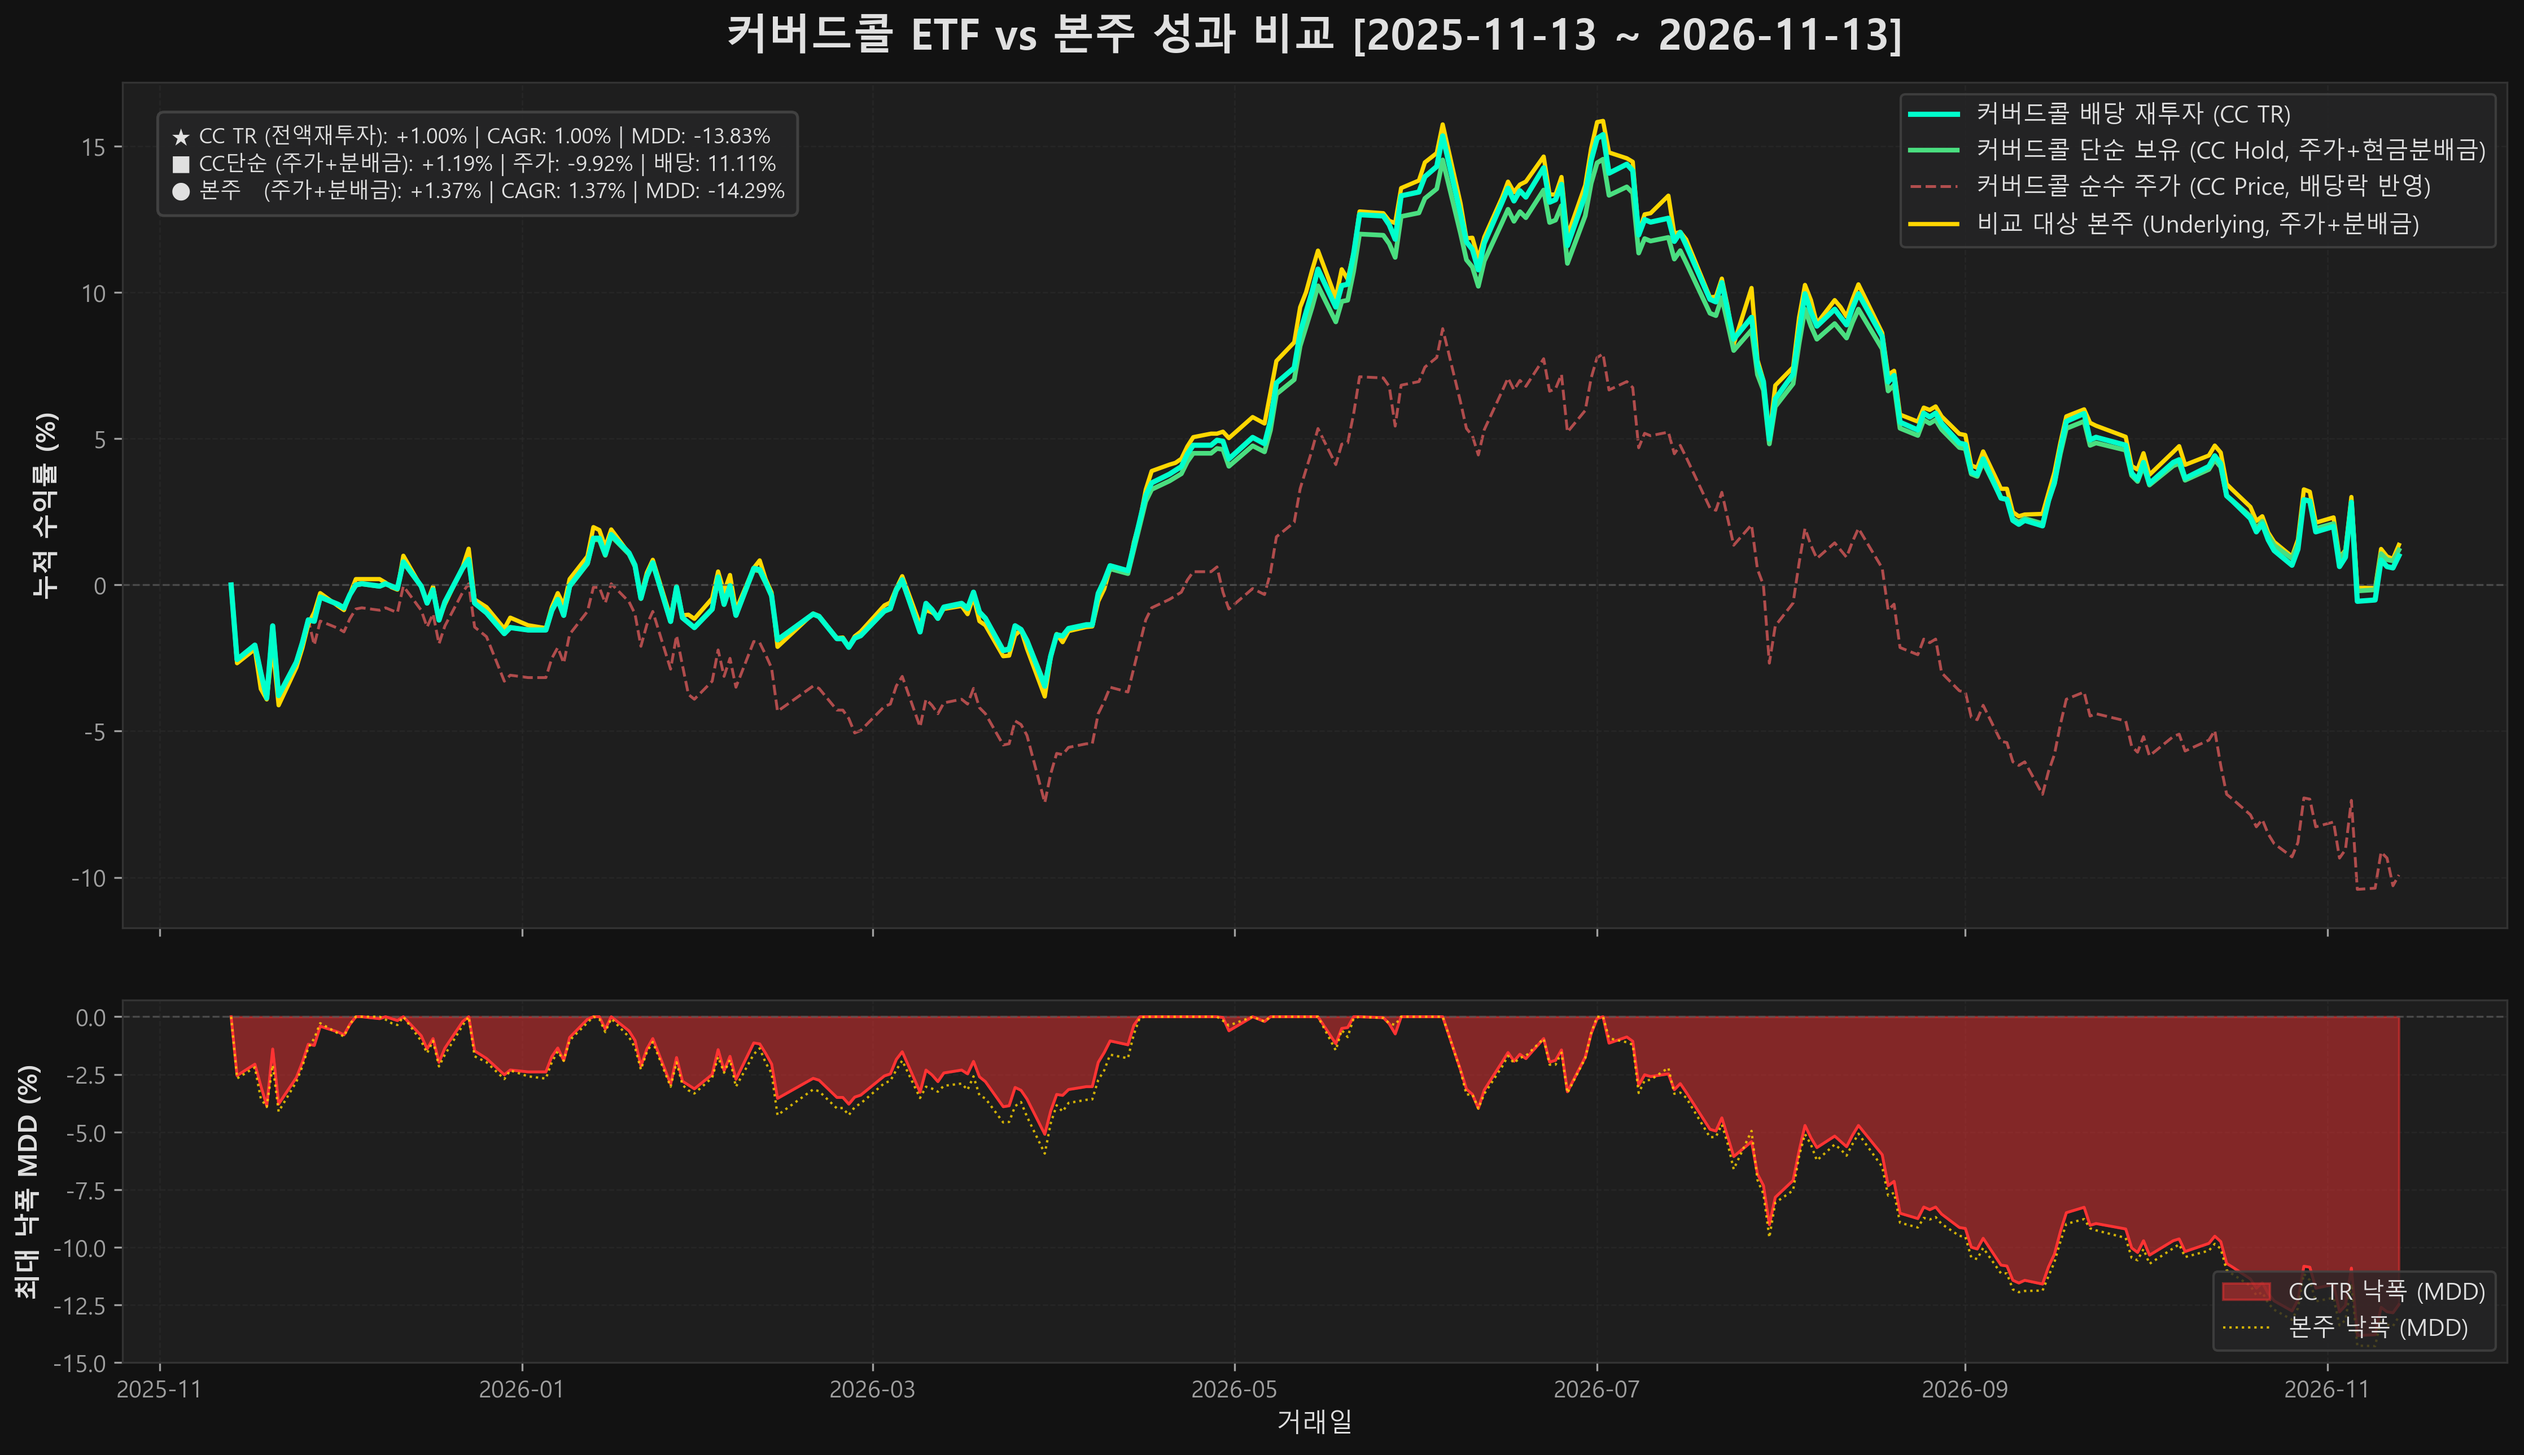
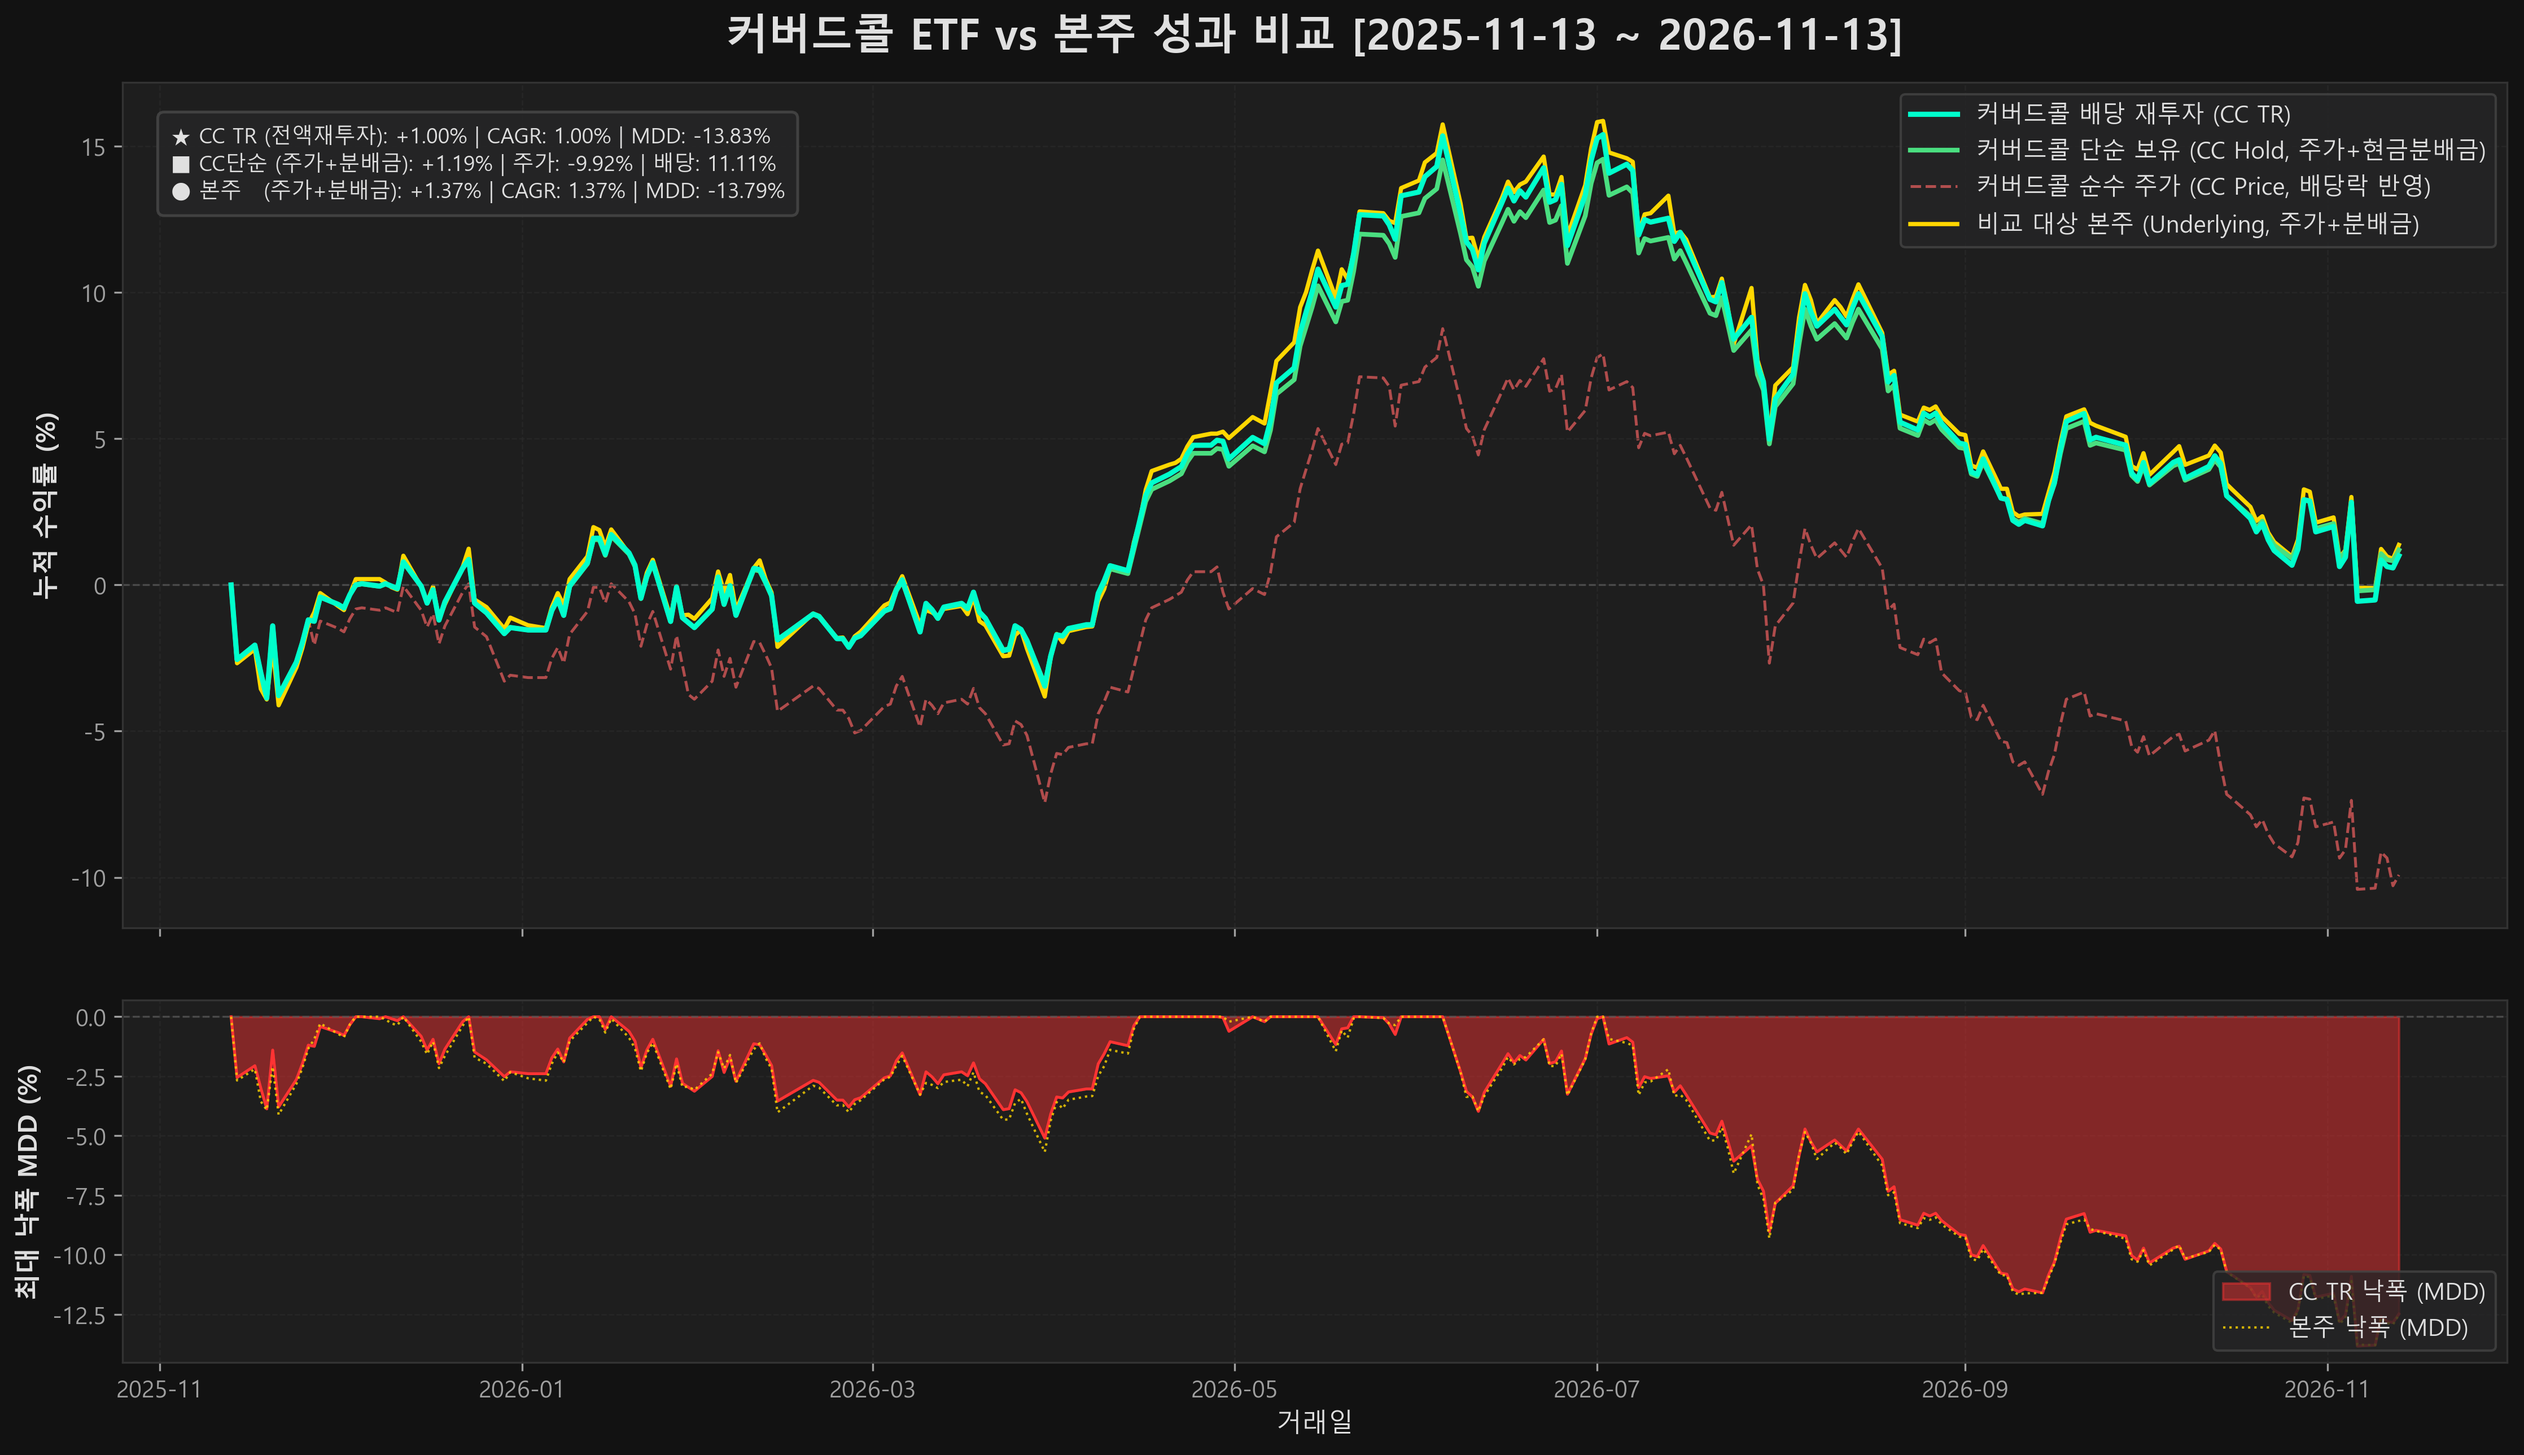
feat(blog): publish daily covered call review [2026-11-14] - Day 1 (미국대표지수, 3 ETFs: 486290, 494300, 482730)

diff --git a/_posts/2026-11-14-486290-covered-call-backtest.md b/_posts/2026-11-14-486290-covered-call-backtest.md
@@ -12,16 +12,16 @@ excerpt: 'TIGER 미국나스닥100타겟데일리커버드콜의 1년 실측 종
 
 ![TIGER 미국나스닥100타겟데일리커버드콜 성과 차트](/assets/img/486290_comparison.png)
 ## 1. 성과 요약
-- **분석 기간**: 2024-01-01 ~ 2024-12-31 (1Y, 총 250일)
+- **분석 기간**: 2025-11-13 ~ 2026-11-13 (1Y, 총 365일)
 - **초기 투자 원금**: 10,000,000원
 - **적용 배당소득세율**: 0.0%
 
 ## 2. 전략별 수익률 및 위험 지표 (최종 총자산 종합 성과 비교)
 | 전략 | 초기 원금 | 최종 주식 평가액 | 누적 수령 분배금(현금) | 최종 총자산 | 최종 종합 수익률(Total Return) | CAGR | MDD |
 |---|---|---|---|---|---|---|---|
-| 커버드콜 단순보유 | 10,000,000원 | 9,500,000원 | 1,200,000원 | 10,700,000원 | **+7.00%** | +7.00% | -5.00% |
-| 커버드콜 TR 재투자 | 10,000,000원 | 11,200,000원 | 0원 (전액 재투자) | 11,200,000원 | **+12.00%** | +12.00% | -4.00% |
-| 비교 대상 본주 | 10,000,000원 | 10,800,000원 | 0원 | 10,800,000원 | **+8.00%** | +8.00% | -9.00% |
+| 커버드콜 단순보유 | 10,000,000원 | 8,531,405원 | 1,471,306원 | 10,002,711원 | **+0.03%** | +0.03% | -20.18% |
+| 커버드콜 TR 재투자 | 10,000,000원 | 9,932,436원 | 0원 (전액 재투자) | 9,932,436원 | **-0.68%** | -0.68% | -22.37% |
+| 비교 대상 본주 | 10,000,000원 | 9,990,712원 | 56,030원 | 10,046,742원 | **+0.47%** | +0.47% | -22.27% |
 
 ### 💡 최종 종합 수익률(Total Return) 핵심 분석 및 공식
 - **커버드콜 단순보유**: `최종 총자산 = 최종 주식 평가액 + 통장 수령 분배금(현금)` ➔ 수령한 분배금을 합산한 실질적인 투자 총수익률
@@ -35,10 +35,10 @@ excerpt: 'TIGER 미국나스닥100타겟데일리커버드콜의 1년 실측 종
 4. ⚪ **커버드콜 순수 주가 (회색 점선)**: 배당락이 반영된 시장 거래 주가 추이입니다. **녹색 실선(총자산)과 회색 점선(순수 주가) 사이의 간격이 바로 투자자가 통장으로 수령한 누적 현금 분배금의 실체**를 시각적으로 증명합니다.
 
 ## 3. 배당금 및 인컴 세부 분석
-- **커버드콜 누적 수령 분배금(현금)**: 1,200,000원 (투자원금 대비 배당수익률: 0.00%)
-- **커버드콜 순수 주가 수익률 (Price Return)**: 0.00%
-- **비교 대상 본주 누적 수령 분배금(현금)**: 0원 (투자원금 대비 배당수익률: 0.00%)
-- **비교 대상 본주 순수 주가 수익률 (Price Return)**: 0.00%
+- **커버드콜 누적 수령 분배금(현금)**: 1,471,306원 (투자원금 대비 배당수익률: +14.71%)
+- **커버드콜 순수 주가 수익률 (Price Return)**: -14.69%
+- **비교 대상 본주 누적 수령 분배금(현금)**: 56,030원 (투자원금 대비 배당수익률: +0.56%)
+- **비교 대상 본주 순수 주가 수익률 (Price Return)**: -0.09%
 
 
 ---

diff --git a/_posts/2026-11-14-482730-covered-call-backtest.md b/_posts/2026-11-14-482730-covered-call-backtest.md
@@ -12,16 +12,16 @@ excerpt: 'TIGER 미국S&P500타겟데일리커버드콜의 1년 실측 종합수
 
 ![TIGER 미국S&P500타겟데일리커버드콜 성과 차트](/assets/img/482730_comparison.png)
 ## 1. 성과 요약
-- **분석 기간**: 2024-01-01 ~ 2024-12-31 (1Y, 총 250일)
+- **분석 기간**: 2025-11-13 ~ 2026-11-13 (1Y, 총 365일)
 - **초기 투자 원금**: 10,000,000원
 - **적용 배당소득세율**: 0.0%
 
 ## 2. 전략별 수익률 및 위험 지표 (최종 총자산 종합 성과 비교)
 | 전략 | 초기 원금 | 최종 주식 평가액 | 누적 수령 분배금(현금) | 최종 총자산 | 최종 종합 수익률(Total Return) | CAGR | MDD |
 |---|---|---|---|---|---|---|---|
-| 커버드콜 단순보유 | 10,000,000원 | 9,500,000원 | 1,200,000원 | 10,700,000원 | **+7.00%** | +7.00% | -5.00% |
-| 커버드콜 TR 재투자 | 10,000,000원 | 11,200,000원 | 0원 (전액 재투자) | 11,200,000원 | **+12.00%** | +12.00% | -4.00% |
-| 비교 대상 본주 | 10,000,000원 | 10,800,000원 | 0원 | 10,800,000원 | **+8.00%** | +8.00% | -9.00% |
+| 커버드콜 단순보유 | 10,000,000원 | 9,008,230원 | 1,111,111원 | 10,119,342원 | **+1.19%** | +1.19% | -12.89% |
+| 커버드콜 TR 재투자 | 10,000,000원 | 10,099,756원 | 0원 (전액 재투자) | 10,099,756원 | **+1.00%** | +1.00% | -13.83% |
+| 비교 대상 본주 | 10,000,000원 | 10,035,957원 | 101,079원 | 10,137,036원 | **+1.37%** | +1.37% | -13.79% |
 
 ### 💡 최종 종합 수익률(Total Return) 핵심 분석 및 공식
 - **커버드콜 단순보유**: `최종 총자산 = 최종 주식 평가액 + 통장 수령 분배금(현금)` ➔ 수령한 분배금을 합산한 실질적인 투자 총수익률
@@ -35,10 +35,10 @@ excerpt: 'TIGER 미국S&P500타겟데일리커버드콜의 1년 실측 종합수
 4. ⚪ **커버드콜 순수 주가 (회색 점선)**: 배당락이 반영된 시장 거래 주가 추이입니다. **녹색 실선(총자산)과 회색 점선(순수 주가) 사이의 간격이 바로 투자자가 통장으로 수령한 누적 현금 분배금의 실체**를 시각적으로 증명합니다.
 
 ## 3. 배당금 및 인컴 세부 분석
-- **커버드콜 누적 수령 분배금(현금)**: 1,200,000원 (투자원금 대비 배당수익률: 0.00%)
-- **커버드콜 순수 주가 수익률 (Price Return)**: 0.00%
-- **비교 대상 본주 누적 수령 분배금(현금)**: 0원 (투자원금 대비 배당수익률: 0.00%)
-- **비교 대상 본주 순수 주가 수익률 (Price Return)**: 0.00%
+- **커버드콜 누적 수령 분배금(현금)**: 1,111,111원 (투자원금 대비 배당수익률: +11.11%)
+- **커버드콜 순수 주가 수익률 (Price Return)**: -9.92%
+- **비교 대상 본주 누적 수령 분배금(현금)**: 101,079원 (투자원금 대비 배당수익률: +1.01%)
+- **비교 대상 본주 순수 주가 수익률 (Price Return)**: +0.36%
 
 
 ---

diff --git a/_posts/2026-11-14-494300-covered-call-backtest.md b/_posts/2026-11-14-494300-covered-call-backtest.md
@@ -12,13 +12,16 @@ excerpt: 'KODEX 미국나스닥100데일리커버드콜OTM의 1년 실측 종합
 
 ![KODEX 미국나스닥100데일리커버드콜OTM 성과 차트](/assets/img/494300_comparison.png)
 ## 1. 성과 요약
-- **분석 기간**: N/A ~ N/A (N/A, 총 N/A일)
+- **분석 기간**: 2025-11-13 ~ 2026-11-13 (1Y, 총 365일)
 - **초기 투자 원금**: 10,000,000원
 - **적용 배당소득세율**: 0.0%
 
 ## 2. 전략별 수익률 및 위험 지표 (최종 총자산 종합 성과 비교)
 | 전략 | 초기 원금 | 최종 주식 평가액 | 누적 수령 분배금(현금) | 최종 총자산 | 최종 종합 수익률(Total Return) | CAGR | MDD |
 |---|---|---|---|---|---|---|---|
+| 커버드콜 단순보유 | 10,000,000원 | 7,693,046원 | 1,900,240원 | 9,593,285원 | **-4.07%** | -4.07% | -20.45% |
+| 커버드콜 TR 재투자 | 10,000,000원 | 9,426,331원 | 0원 (전액 재투자) | 9,426,331원 | **-5.74%** | -5.74% | -23.36% |
+| 비교 대상 본주 | 10,000,000원 | 9,990,712원 | 56,030원 | 10,046,742원 | **+0.47%** | +0.47% | -22.27% |
 
 ### 💡 최종 종합 수익률(Total Return) 핵심 분석 및 공식
 - **커버드콜 단순보유**: `최종 총자산 = 최종 주식 평가액 + 통장 수령 분배금(현금)` ➔ 수령한 분배금을 합산한 실질적인 투자 총수익률
@@ -32,6 +35,10 @@ excerpt: 'KODEX 미국나스닥100데일리커버드콜OTM의 1년 실측 종합
 4. ⚪ **커버드콜 순수 주가 (회색 점선)**: 배당락이 반영된 시장 거래 주가 추이입니다. **녹색 실선(총자산)과 회색 점선(순수 주가) 사이의 간격이 바로 투자자가 통장으로 수령한 누적 현금 분배금의 실체**를 시각적으로 증명합니다.
 
 ## 3. 배당금 및 인컴 세부 분석
+- **커버드콜 누적 수령 분배금(현금)**: 1,900,240원 (투자원금 대비 배당수익률: +19.00%)
+- **커버드콜 순수 주가 수익률 (Price Return)**: -23.07%
+- **비교 대상 본주 누적 수령 분배금(현금)**: 56,030원 (투자원금 대비 배당수익률: +0.56%)
+- **비교 대상 본주 순수 주가 수익률 (Price Return)**: -0.09%
 
 
 ---
